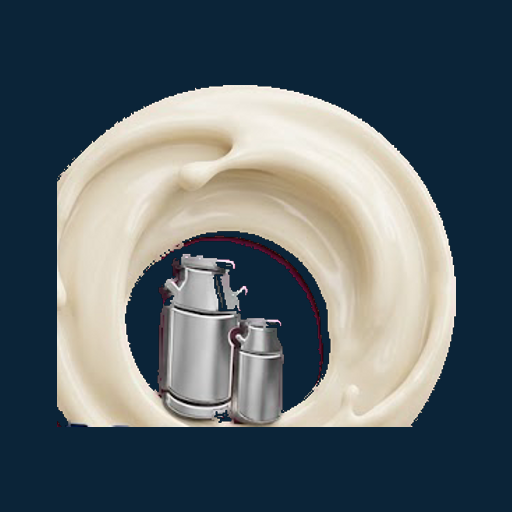
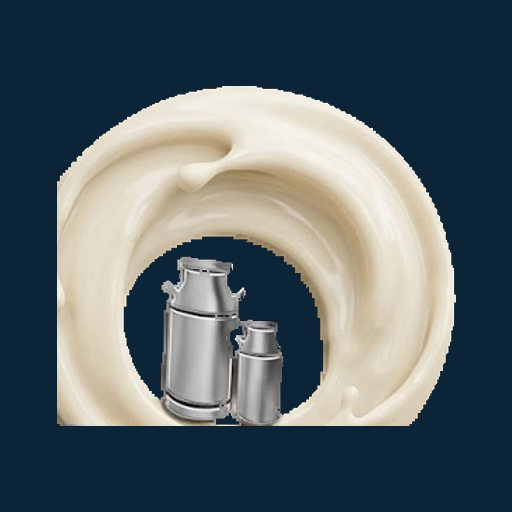
Judge a pixel by what colour it is, not how far it is from the backdrop
The cut was eating the milk cans in one place and leaving a maroon halo
in another, and both came from the same mistake: measuring how close a
pixel was to the backdrop's colour. A magenta darkened by the shadow of
a can and a chrome darkened by the same shadow end up about equally far
from bright magenta, so no single threshold could tell them apart. Cut
softly and the halo stayed; cut hard and the can handles went with it.

Hue answers the question that distance cannot. A shaded magenta is still
magenta; chrome in shadow is still grey. So where the backdrop is a
colour rather than a grey, a pixel is judged by whether it wears that
colour at all — which clears every shade of the key and cannot touch
cream, chrome or blue, because none of them are anywhere near it. A grey
chessboard has no hue to match, so that case still goes by distance.

Two edges needed more than that. Where a boundary pixel sits against
solid artwork it takes that artwork's colour and keeps its own alpha, so
the shape does not move. Where there is no inside to borrow from — the
bull's outline is one pixel wide, the whole stroke is boundary — the
pink is simply wrung out of it: hue drained to grey, brightness left
alone. Nothing else in the artwork is near the key's hue, so nothing
else changes.

Also a small tool for looking at an edge four times life size against
navy, white or a chessboard, because an edge that reads clean on one
reads filthy on another, and guessing at this wasted more time than
[…]

diff --git a/tool/make_icons.dart b/tool/make_icons.dart
@@ -154,16 +154,52 @@ String? _flag(List<String> args, String name) {
     'Backdrop colours: ${backdrop.map((c) => 'rgb(${c[0]},${c[1]},${c[2]})').join(', ')}',
   );
 
+  // Is the backdrop a colour, or a grey?
+  //
+  // It decides how a pixel is judged, and the difference matters. A grey
+  // chessboard can only be told apart by how close a pixel is to it, and
+  // close is all one can ask, because the bull is grey too. A magenta key can
+  // be told apart by what colour it *is* — and that is a far better question,
+  // because a shaded magenta in the shadow of a milk can is still magenta,
+  // while chrome in shadow is still grey. Measuring distance confuses those
+  // two; asking the hue does not.
+  final key = _average(backdrop);
+  final keyHue = _hue(key);
+  final keySat = _saturation(key);
+  final keyed = keySat > 0.25;
+
+  stdout.writeln(
+    keyed
+        ? 'Backdrop is a colour key at hue ${keyHue.round()}°'
+        : 'Backdrop is neutral — judging by distance',
+  );
+
   /// How far a pixel is from the nearest backdrop colour.
   int distance(int x, int y) {
     final p = _rgb(src, x, y);
     var best = 1 << 20;
     for (final c in backdrop) {
-      final d = (p[0] - c[0]).abs() + (p[1] - c[1]).abs() + (p[2] - c[2]).abs();
+      final d =
+          (p[0] - c[0]).abs() + (p[1] - c[1]).abs() + (p[2] - c[2]).abs();
       if (d < best) best = d;
     }
     return best;
   }
+
+  /// Whether this pixel is the backdrop's own colour, however light or dark
+  /// the render has made it.
+  bool isKey(int x, int y) {
+    final p = _rgb(src, x, y);
+    final sat = _saturation(p);
+    if (sat < keySat * 0.30) return false;
+    var d = (_hue(p) - keyHue).abs();
+    if (d > 180) d = 360 - d;
+    return d < 28;
+  }
+
+  /// The one test everything below uses.
+  bool isBackdrop(int x, int y, int tolerance) =>
+      keyed ? isKey(x, y) : distance(x, y) <= tolerance;
 
   // The chessboard is two flat greys, but the seam between two squares is a
   // blend of the two, so the tolerance has to be wide enough to swallow the
@@ -187,7 +223,7 @@ String? _flag(List<String> args, String name) {
     if (x < 0 || y < 0 || x >= w || y >= h) return;
     final i = y * w + x;
     if (seen[i]) return;
-    if (distance(x, y) > tolerance) return;
+    if (!isBackdrop(x, y, tolerance)) return;
     seen[i] = true;
     queue.add(i);
   }
@@ -212,24 +248,27 @@ String? _flag(List<String> args, String name) {
     push(x, y + 1, spread);
   }
 
-  // The rim: pixels the flood stopped at are part backdrop, part artwork, and
-  // left alone they draw a grey outline round everything. Their alpha is
-  // pulled down by however much backdrop is in them.
-  for (var y = 0; y < h; y++) {
-    for (var x = 0; x < w; x++) {
-      if (seen[y * w + x]) continue;
-      if (!_touchesClear(seen, x, y, w, h)) continue;
-      final d = distance(x, y);
-      if (d >= edge) continue;
-      final p = out.getPixel(x, y);
-      out.setPixelRgba(
-        x,
-        y,
-        p.r.round(),
-        p.g.round(),
-        p.b.round(),
-        (255 * (d / edge)).round(),
-      );
+  // Softening the rim by how much backdrop is in it only makes sense when
+  // the backdrop was a grey the artwork half shares. Against a colour key a
+  // pixel either is that colour or is not, and thinning the edge there just
+  // gnaws at the shape.
+  if (!keyed) {
+    for (var y = 0; y < h; y++) {
+      for (var x = 0; x < w; x++) {
+        if (seen[y * w + x]) continue;
+        if (!_touchesClear(seen, x, y, w, h)) continue;
+        final d = distance(x, y);
+        if (d >= edge) continue;
+        final p = out.getPixel(x, y);
+        out.setPixelRgba(
+          x,
+          y,
+          p.r.round(),
+          p.g.round(),
+          p.b.round(),
+          (255 * (d / edge)).round(),
+        );
+      }
     }
   }
 
@@ -306,6 +345,48 @@ String? _flag(List<String> args, String name) {
     out.setPixelRgba(x, y, c[0], c[1], c[2], out.getPixel(x, y).a.round());
   }
 
+  // Last: wring the key's colour out of anything that kept a trace of it.
+  //
+  // The pass above hands a boundary pixel the colour of the artwork inside
+  // it, which works where there is an inside. On a line one pixel wide there
+  // is none — the whole stroke is boundary — so the bull's outline came out
+  // wearing a pink thread down one side. Rather than hunt for a donor that
+  // does not exist, that pixel simply has the pink taken out of it: the hue
+  // is drained to grey and the brightness left exactly where it was.
+  //
+  // Safe because nothing in this artwork is anywhere near the key's hue. The
+  // milk is warm cream, the chrome has no hue at all, the lettering is blue.
+  // Only what the backdrop touched is wearing magenta, so only that changes.
+  if (keyed) {
+    for (var y = 0; y < h; y++) {
+      for (var x = 0; x < w; x++) {
+        if (seen[y * w + x]) continue;
+        final px = out.getPixel(x, y);
+        if (px.a < 8) continue;
+
+        final c = [px.r.round(), px.g.round(), px.b.round()];
+        final sat = _saturation(c);
+        if (sat < 0.06) continue;
+
+        var d = (_hue(c) - keyHue).abs();
+        if (d > 180) d = 360 - d;
+        if (d > 42) continue;
+
+        // Fully the key's hue, fully drained; further off, less so.
+        final pull = 1 - (d / 42);
+        final grey = (0.299 * c[0] + 0.587 * c[1] + 0.114 * c[2]);
+        out.setPixelRgba(
+          x,
+          y,
+          (c[0] + (grey - c[0]) * pull).round(),
+          (c[1] + (grey - c[1]) * pull).round(),
+          (c[2] + (grey - c[2]) * pull).round(),
+          px.a.round(),
+        );
+      }
+    }
+  }
+
   return (out, cut);
 }
 
@@ -318,6 +399,44 @@ bool _touchesClear(List<bool> seen, int x, int y, int w, int h) {
     }
   }
   return false;
+}
+
+/// The middle of a set of colours.
+List<int> _average(List<List<int>> colours) {
+  var r = 0, g = 0, b = 0;
+  for (final c in colours) {
+    r += c[0];
+    g += c[1];
+    b += c[2];
+  }
+  final n = colours.length;
+  return [r ~/ n, g ~/ n, b ~/ n];
+}
+
+/// Which colour this is, on the wheel, 0–360.
+double _hue(List<int> c) {
+  final r = c[0] / 255, g = c[1] / 255, b = c[2] / 255;
+  final max = [r, g, b].reduce((a, x) => a > x ? a : x);
+  final min = [r, g, b].reduce((a, x) => a < x ? a : x);
+  final d = max - min;
+  if (d == 0) return 0;
+  double h;
+  if (max == r) {
+    h = ((g - b) / d) % 6;
+  } else if (max == g) {
+    h = (b - r) / d + 2;
+  } else {
+    h = (r - g) / d + 4;
+  }
+  h *= 60;
+  return h < 0 ? h + 360 : h;
+}
+
+/// How much colour there is in it, 0–1. Grey is zero however light or dark.
+double _saturation(List<int> c) {
+  final max = [c[0], c[1], c[2]].reduce((a, x) => a > x ? a : x);
+  final min = [c[0], c[1], c[2]].reduce((a, x) => a < x ? a : x);
+  return max == 0 ? 0 : (max - min) / max;
 }
 
 List<int> _rgb(img.Image im, int x, int y) {

diff --git a/tool/zoom.dart b/tool/zoom.dart
@@ -1,0 +1,59 @@
+// Cuts a piece out of a picture and blows it up, so an edge can actually be
+// looked at instead of guessed about.
+//
+//   dart run tool/zoom.dart <image> <l,t,r,b> [--on navy|white|checks]
+//
+// The box is in fractions of the image. The backing matters: a cut looks
+// clean against one colour and filthy against another, and the app shows the
+// logo on navy while a printer would put it on white.
+
+import 'dart:io';
+
+import 'package:image/image.dart' as img;
+
+void main(List<String> args) {
+  if (args.length < 2) {
+    stderr.writeln('dart run tool/zoom.dart <image> <l,t,r,b> [--on navy]');
+    exit(2);
+  }
+
+  final src = img.decodeImage(File(args.first).readAsBytesSync());
+  if (src == null) {
+    stderr.writeln('Cannot read that.');
+    exit(2);
+  }
+
+  final f = args[1].split(',').map(double.parse).toList();
+  final x = (f[0] * src.width).round();
+  final y = (f[1] * src.height).round();
+  final w = ((f[2] - f[0]) * src.width).round().clamp(1, src.width - x);
+  final h = ((f[3] - f[1]) * src.height).round().clamp(1, src.height - y);
+
+  final on = args.contains('--on') ? args[args.indexOf('--on') + 1] : 'navy';
+  final piece = img.copyCrop(src, x: x, y: y, width: w, height: h);
+  final big = img.copyResize(
+    piece,
+    width: (w * 4).clamp(1, 1400),
+    interpolation: img.Interpolation.nearest,
+  );
+
+  final canvas = img.Image(width: big.width, height: big.height);
+  switch (on) {
+    case 'white':
+      canvas.clear(img.ColorRgb8(255, 255, 255));
+    case 'checks':
+      for (var yy = 0; yy < canvas.height; yy++) {
+        for (var xx = 0; xx < canvas.width; xx++) {
+          final light = ((xx ~/ 16) + (yy ~/ 16)).isEven;
+          final v = light ? 220 : 180;
+          canvas.setPixelRgb(xx, yy, v, v, v);
+        }
+      }
+    default:
+      canvas.clear(img.ColorRgb8(0x0B, 0x24, 0x38));
+  }
+  img.compositeImage(canvas, big);
+
+  File('zoom.png').writeAsBytesSync(img.encodePng(canvas));
+  stdout.writeln('Wrote zoom.png (${canvas.width}x${canvas.height}) on $on');
+}
